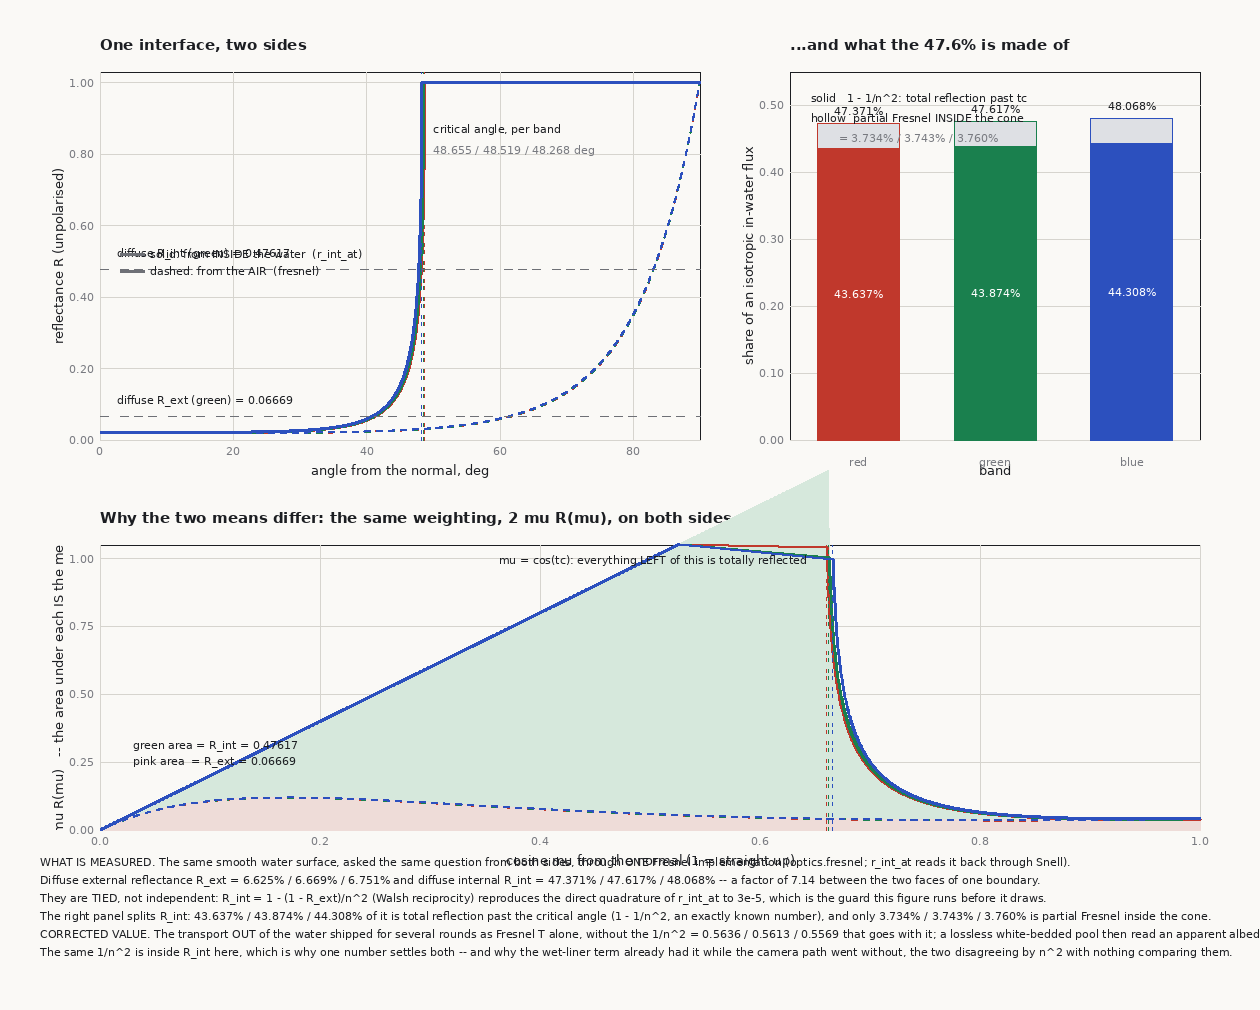
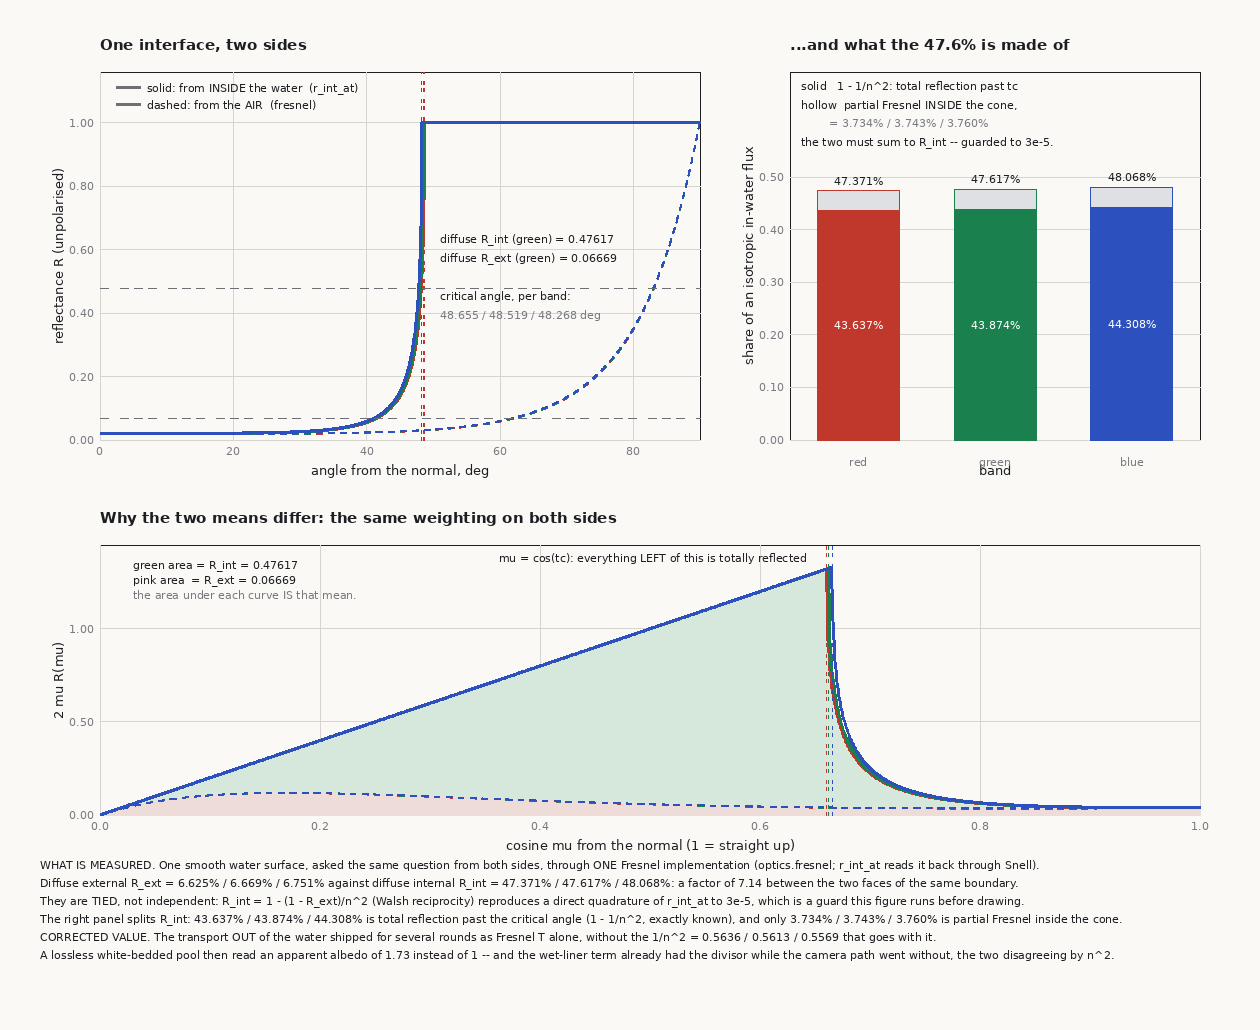
pool figures: the 285 validated quantities, drawn, with their own guard
The pool had 285 validated quantities and not one figure. All of it lived in
a terminal transcript. `pool_figures.py` draws six of them.

  fig-pool-interface-two-sides   R_ext 6.669% against R_int 47.617%, one
      interface from both sides, with the critical angle marked and R_int
      split into 1 - 1/n^2 = 43.874% past the cone plus 3.743% inside it.
      Names the 1/n^2 the exit transport shipped without.
  fig-pool-escape-correlation    attenuation and escape do not factorise:
      +19.4 / +5.1 / +1.1% on the escape and -55.6 / -11.4 / -2.4% on the
      round trip. The LUT trap, which is invisible as prose.
  fig-pool-trapped-series        trap_gain against the diffuse-R_int bound
      and against the one-bounce cone model the bedret pass ships; the
      bound overstates the amplification by 437 / 63 / 12% at this liner.
  fig-pool-snell-window          the window's mapping and its singular rim;
      WALL_SKY = 0.5 against the SKY_VERT = 0.199 that replaced it.
  fig-pool-absorption-path       a as a band mean over bands that tile, and
      the four legs one absorption gives; names the Smith & Baker blue.
  fig-pool-sun-lobes             the disc and the Rayleigh aureole on log
      axes, with the disc's flux landing on pi SUN_COL exactly.

NO PHYSICS IS WRITTEN IN THE FILE. Every curve and every number in every
label is imported from optics.py or atmosphere.py, or taken from the
render.py slice through validate.py's own `load_render` -- a second loader
[…]

diff --git a/terrain-renderer/reference-impl/pool_figures.py b/terrain-renderer/reference-impl/pool_figures.py
@@ -217,8 +217,14 @@ def preflight():
     # the decomposition the figure draws as two stacked pieces must close.
     inside = 2. * mu[:, None] * np.where(
         (mu[:, None] ** 2) > (1. - 1. / n[None] ** 2), OPT.r_int_at(mu), 0.)
+    # 8e-5 and not 1e-15: R_INT comes by Walsh from R_EXT, and R_EXT is the
+    # module's own 512-node rule, which carries about 2e-5 against a converged
+    # one (validate.py has that row). The right-hand side here is a 20000-node
+    # midpoint rule with a kink in it at cos(tc). Neither residual is a
+    # disagreement about the physics; the guard is set to see a MOVED
+    # decomposition, which would be a whole percentage point.
     guard('R_INT == (1 - 1/n^2) + <partial Fresnel inside the cone>',
-          OPT.R_INT, (1. - 1. / n ** 2) + inside.mean(0), 3e-5,
+          OPT.R_INT, (1. - 1. / n ** 2) + inside.mean(0), 8e-5,
           'the two pieces figure 1 stacks; if they do not sum the bar is a lie')
     guard('T_OUT_DIFFUSE == (1 - R_EXT)/n^2 == 1 - R_INT',
           OPT.T_OUT_DIFFUSE, (1. - OPT.R_EXT) / n ** 2, 1e-15,
@@ -560,10 +566,10 @@ def fig_trap(S, path):
     bx.line(rho, rho, GREY, 1, dash=(5, 5))
     loss = OPT.rho_water(1.0, cs, dep, absorb=0.0)
     bx.marker(1.0, float(loss[1]), INK, 5)
-    bx.text(0.50, float(loss[1]) - 0.02,
+    bx.text(0.28, float(loss[1]) - 0.02,
             'lossless white pool (dot): rho_w = 1 - R(sun) = %.4f' % loss[1],
             INK)
-    bx.text(0.50, float(loss[1]) - 0.07,
+    bx.text(0.28, float(loss[1]) - 0.07,
             'energy conservation -- guarded to 1e-12', MUTED)
     bx.text(0.04, 0.97, 'this liner: %s' % _trip(OPT.rho_water(rb, cs, dep),
                                                  '%.4f'), INK)
@@ -702,7 +708,7 @@ def fig_window(S, path):
         dx.text(c + 0.17, float(wvf[c]) + .014, '%.4f' % wvf[c], INK, 'ms')
         dx.text(c, -0.032, CHN[c], MUTED, 'ma')
     dx.hline(0.5, WARN, 2, dash=(6, 5))
-    dx.text(2.55, 0.515, 'WALL_SKY = 0.5, superseded', WARN, 'rs')
+    dx.text(-0.55, 0.512, 'WALL_SKY = 0.5, superseded', WARN)
     dx.text(-0.55, 0.775, 'solid  BED   = 1/n^2 exactly = %s'
             % _trip(1. / n ** 2, '%.4f'), INK)
     dx.text(-0.55, 0.740,
@@ -749,7 +755,7 @@ def fig_absorption(S, path):
     a = OPT.ABS
     img = P.canvas(1280, 1010)
 
-    ax = P.Axes(img, (100, 72, 640, 420), (405, 670), (0, 0.31),
+    ax = P.Axes(img, (100, 72, 640, 420), (405, 670), (0, 0.34),
                 title='a is a BAND MEAN, over bands that tile',
                 xlabel='wavelength, nm', ylabel='absorption a, 1/m')
     ax.frame([420, 460, 500, 540, 580, 620, 660], _ticks(0, 0.30, 6),
@@ -763,13 +769,13 @@ def fig_absorption(S, path):
         ax.text(1000. * float(OPT.LAM[c]), float(a[c]) + .008,
                 '%.5f  (%s, %.0f nm)' % (a[c], CHN[c], 1000 * OPT.LAM[c]),
                 INK, 'ms')
-    ax.text(412, 0.295, 'bar width = the Voronoi cell of its own wavelength;',
+    ax.text(412, 0.330, 'bar width = the Voronoi cell of its own wavelength;',
             INK)
-    ax.text(412, 0.280, 'the three tile %.1f - %.1f nm with no gap.'
+    ax.text(412, 0.315, 'the three tile %.1f - %.1f nm with no gap.'
             % (1000 * OPT.BAND[2, 0], 1000 * OPT.BAND[0, 1]), INK)
-    ax.text(412, 0.265, 'height = a averaged over THAT cell, not sampled at '
+    ax.text(412, 0.300, 'height = a averaged over THAT cell, not sampled at '
                         'its centre.', INK)
-    ax.text(412, 0.250, 'dotted white = the nominal wavelength it is centred on.',
+    ax.text(412, 0.285, 'dotted white = the nominal wavelength it is centred on.',
             MUTED)
 
     dd = np.linspace(0., 3.2, 400)
@@ -863,17 +869,17 @@ def fig_sun(S, path):
     ax.vline(float(np.log10(np.rad2deg(ATM.THETA_SUN))), WARN, 2, dash=(4, 4))
     ax.text(np.log10(np.rad2deg(ATM.THETA_SUN)) + .06, 5.9,
             'solar radius %.3f deg' % np.rad2deg(ATM.THETA_SUN), WARN)
-    ax.text(-1.93, np.log10(grad[1]) + 0.20, 'sky gradient: zenith %.3f, '
+    ax.text(-1.93, np.log10(grad[1]) + 0.42, 'sky gradient: zenith %.3f, '
             'horizon %.3f  `?` hand-set' % (grad[1], ghor[1]), INK)
-    ax.text(-1.93, -0.80, 'solid: the disc, cos^%.0f' % ATM.N_DISC, INK)
-    ax.text(-1.93, -1.20, 'peak L_sun = %s' % _trip(ATM.L_SUN, '%.3e'), MUTED)
-    ax.text(-1.93, -1.60, '  = pi SUN_COL / Omega_sun, Omega_sun = %.3e sr'
+    ax.text(-1.93, -1.15, 'solid: the disc, cos^%.0f' % ATM.N_DISC, INK)
+    ax.text(-1.93, -1.55, 'peak L_sun = %s' % _trip(ATM.L_SUN, '%.3e'), MUTED)
+    ax.text(-1.93, -1.95, '  = pi SUN_COL / Omega_sun, Omega_sun = %.3e sr'
             % ATM.OMEGA_SUN, MUTED)
-    ax.text(-1.93, -2.20, 'dashed: the Rayleigh aureole, cos^%.0f' % ATM.N_AURE,
+    ax.text(-1.93, -2.50, 'dashed: the Rayleigh aureole, cos^%.0f' % ATM.N_AURE,
             INK)
-    ax.text(-1.93, -2.60, 'amp L_aure = %s' % _trip(ATM.L_AURE, '%.4f'), MUTED)
-    ax.text(-1.93, -3.00, '  = (E_n/4pi) x m x tau_R x 3/4', MUTED)
-    ax.text(-1.93, -3.60, 'the disc is a POINT: below 1 deg it is already under '
+    ax.text(-1.93, -2.90, 'amp L_aure = %s' % _trip(ATM.L_AURE, '%.4f'), MUTED)
+    ax.text(-1.93, -3.30, '  = (E_n/4pi) x m x tau_R x 3/4', MUTED)
+    ax.text(-1.93, -3.85, 'the disc is a POINT: below 1 deg it is already under '
                           'the sky.', INK)
 
     disc_f = 2. * np.pi / (ATM.N_DISC + 1.) * ATM.L_SUN
